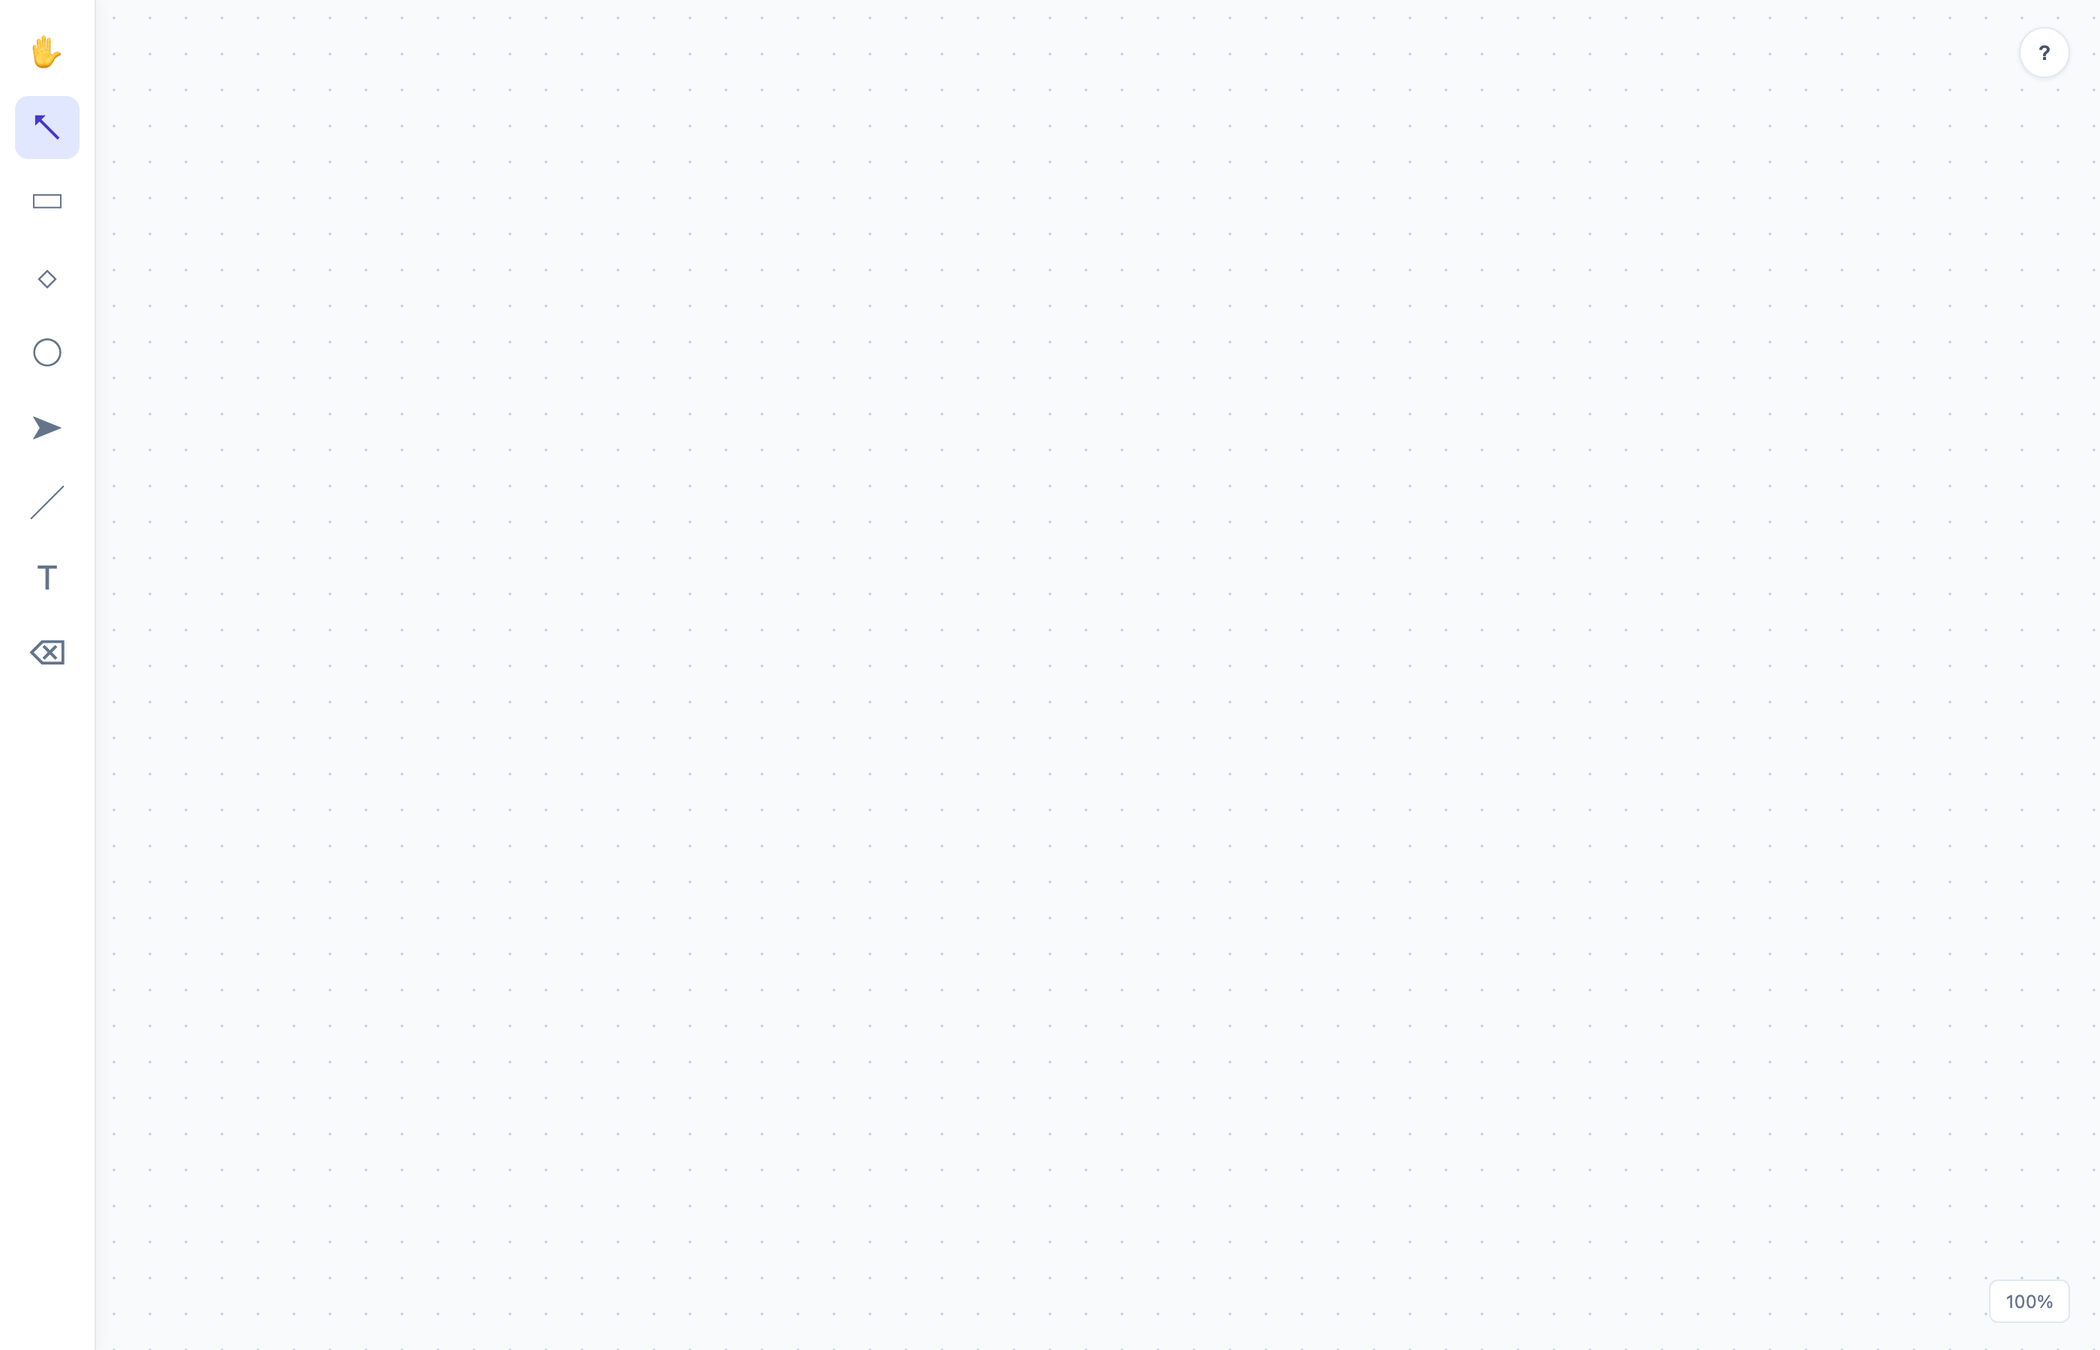
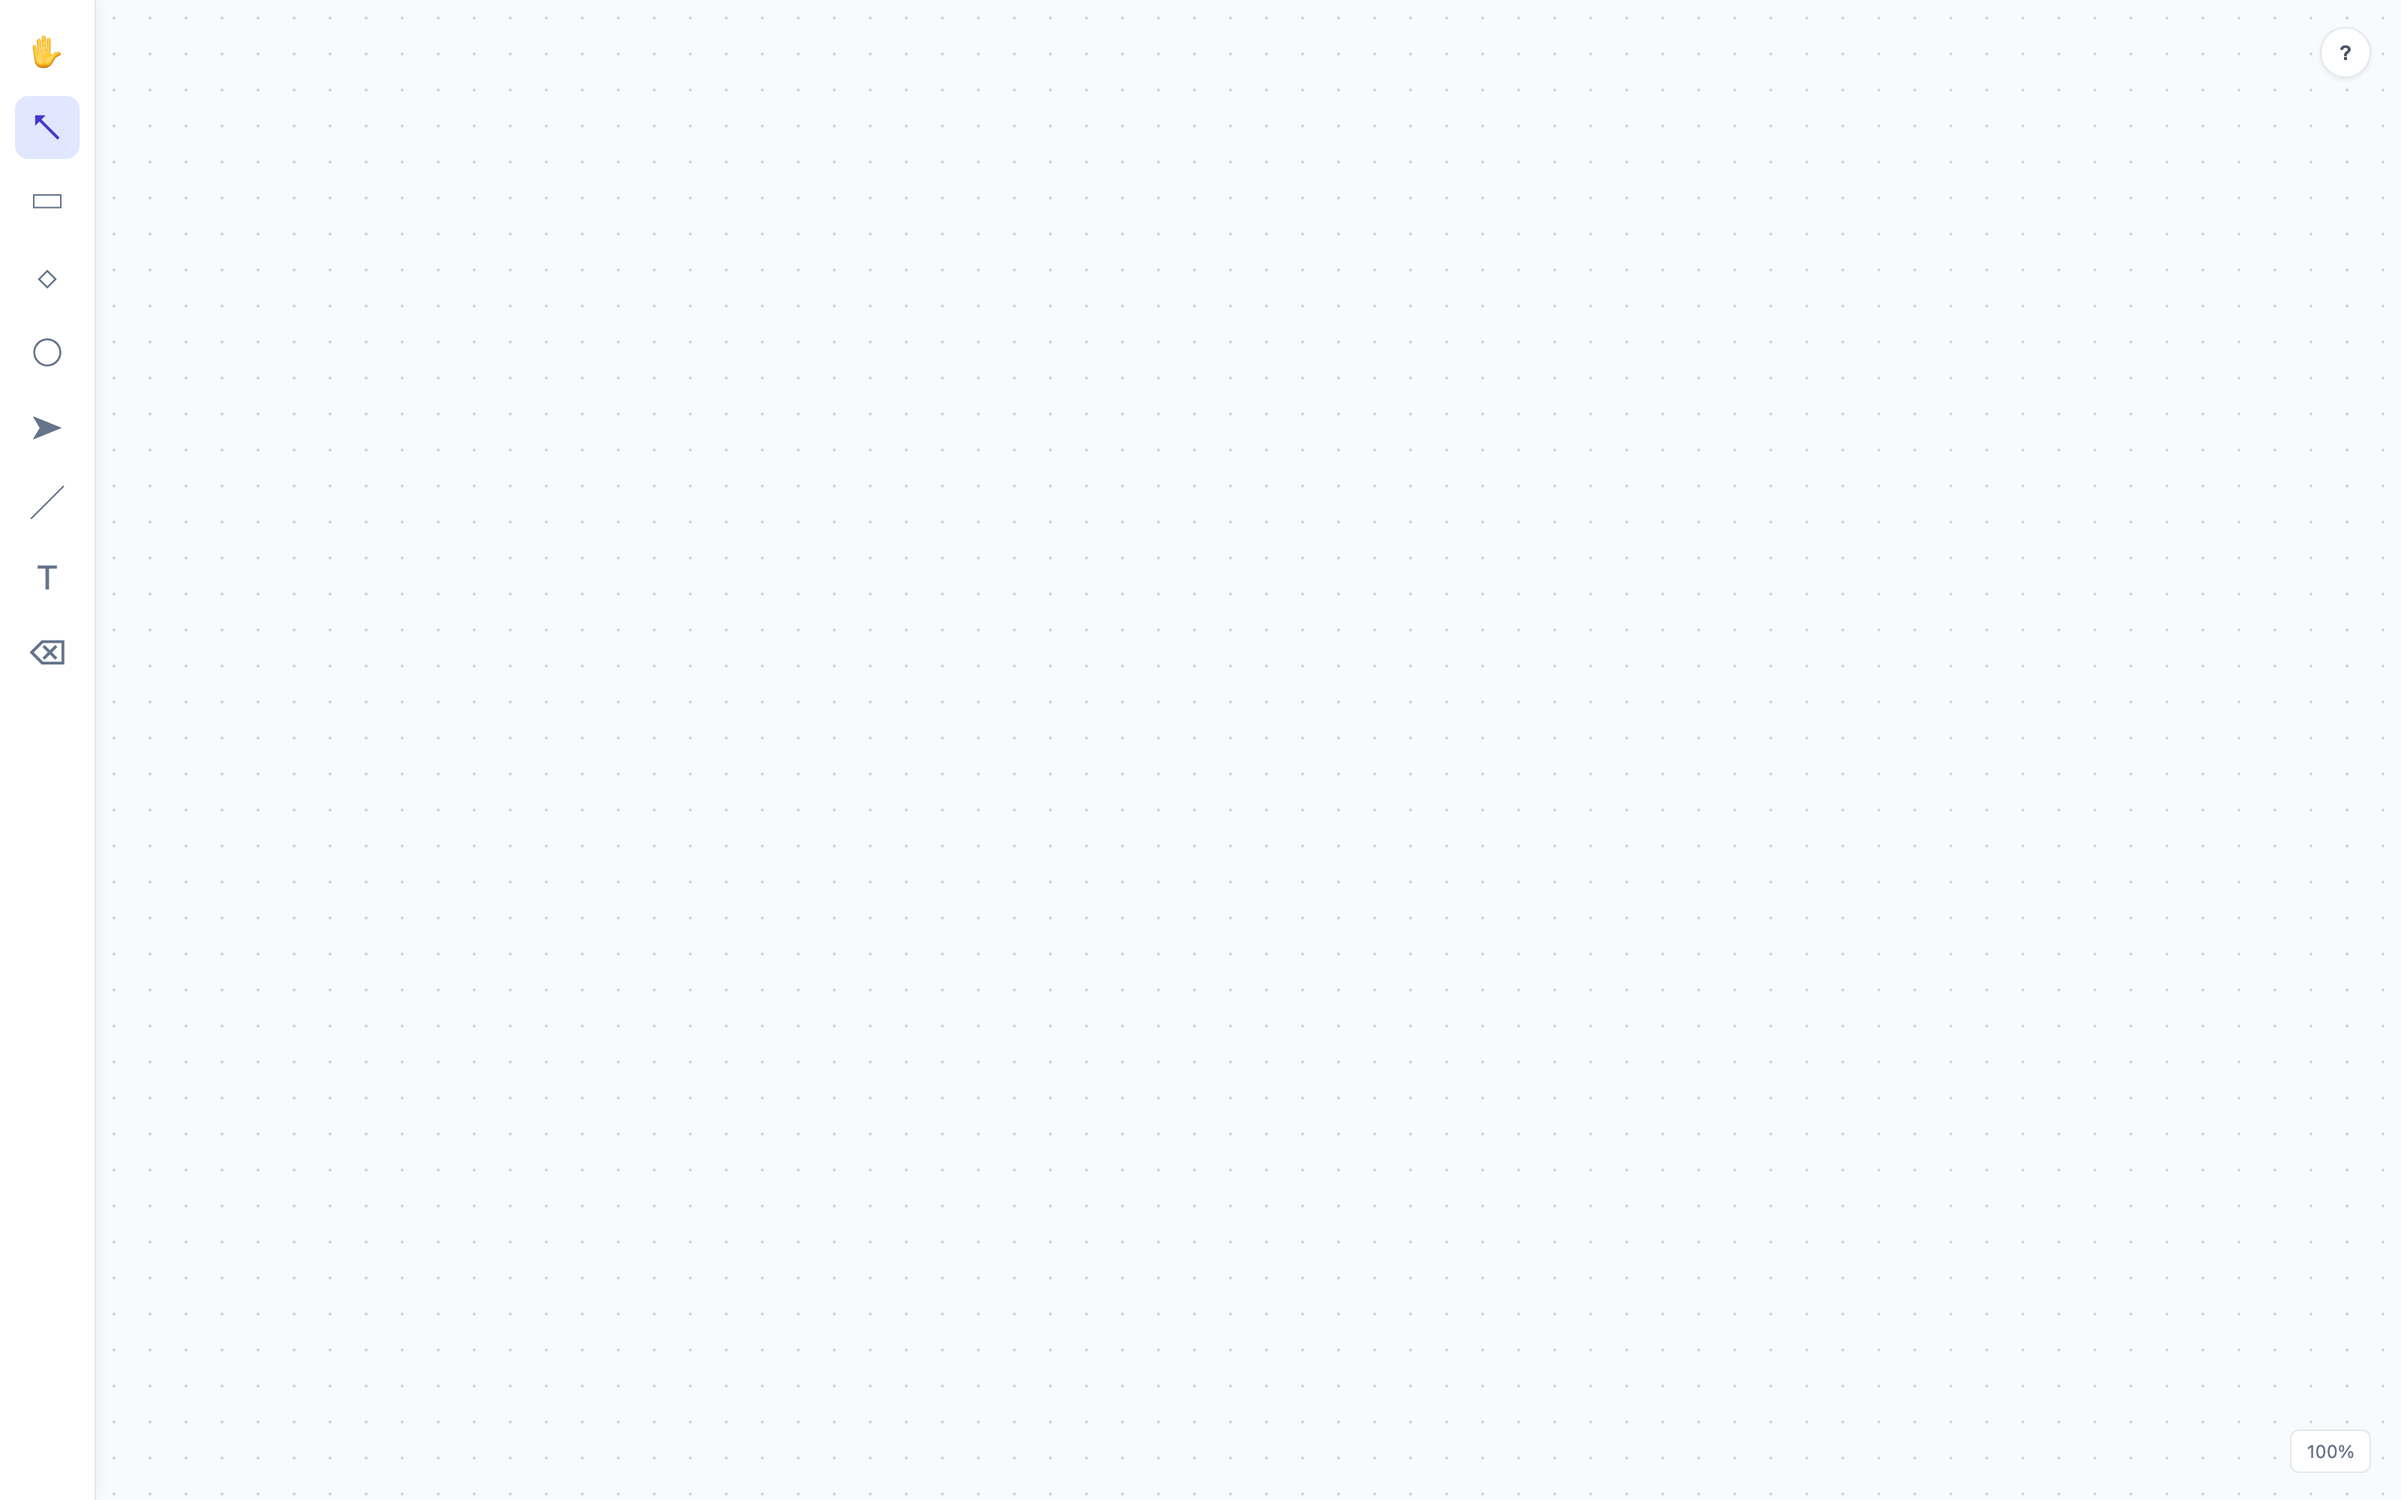
fix(bridge): allow both localhost and 127.0.0.1 in CORS_ALLOWED_ORIGIN
GUI at http://127.0.0.1:5173 was blocked from subscribing to
bridge SSE at http://127.0.0.1:5174/events because the bridge only
allowed origin 'http://localhost:5173'. Hardcode the dual origin
set so GUI works at either address.

The fix:
- Replace string ALLOWED_ORIGIN with Set of both variants
- Use 'origin' (the actual matching string) when setting
  Access-Control-Allow-Origin header, not the Set itself
  (which Node would coerce to '[object Set]')

Also re-takes the MCP agent architecture screenshot now that the
full end-to-end pipeline is working: MCP create_element -> store
subscribe -> bridge SSE -> GUI EventSource -> store patch ->
canvas re-render. README + dev-harness-kit#647 already cover the
full architecture explanation.

diff --git a/packages/bridge/src/server.ts b/packages/bridge/src/server.ts
@@ -8,7 +8,7 @@ export interface BridgeServerOptions {
   port?: number;
 }
 
-const ALLOWED_ORIGIN = "http://localhost:5173";
+const ALLOWED_ORIGIN = new Set(["http://localhost:5173", "http://127.0.0.1:5173"]);
 
 /** Localhost-only SSE bridge. It intentionally multiplexes element deltas only. */
 export class BridgeServer implements BridgeTransport {
@@ -66,11 +66,11 @@ export class BridgeServer implements BridgeTransport {
 
   private handle(request: IncomingMessage, response: ServerResponse): void {
     const origin = request.headers.origin;
-    if (origin === ALLOWED_ORIGIN) response.setHeader("Access-Control-Allow-Origin", ALLOWED_ORIGIN);
+    if (ALLOWED_ORIGIN.has(origin)) response.setHeader("Access-Control-Allow-Origin", origin);
     response.setHeader("Vary", "Origin");
 
     if (request.method === "OPTIONS") {
-      if (origin !== ALLOWED_ORIGIN) { response.writeHead(403); response.end(); return; }
+      if (!ALLOWED_ORIGIN.has(origin)) { response.writeHead(403); response.end(); return; }
       response.setHeader("Access-Control-Allow-Methods", "GET, POST, OPTIONS");
       response.setHeader("Access-Control-Allow-Headers", "content-type");
       response.writeHead(204); response.end(); return;
